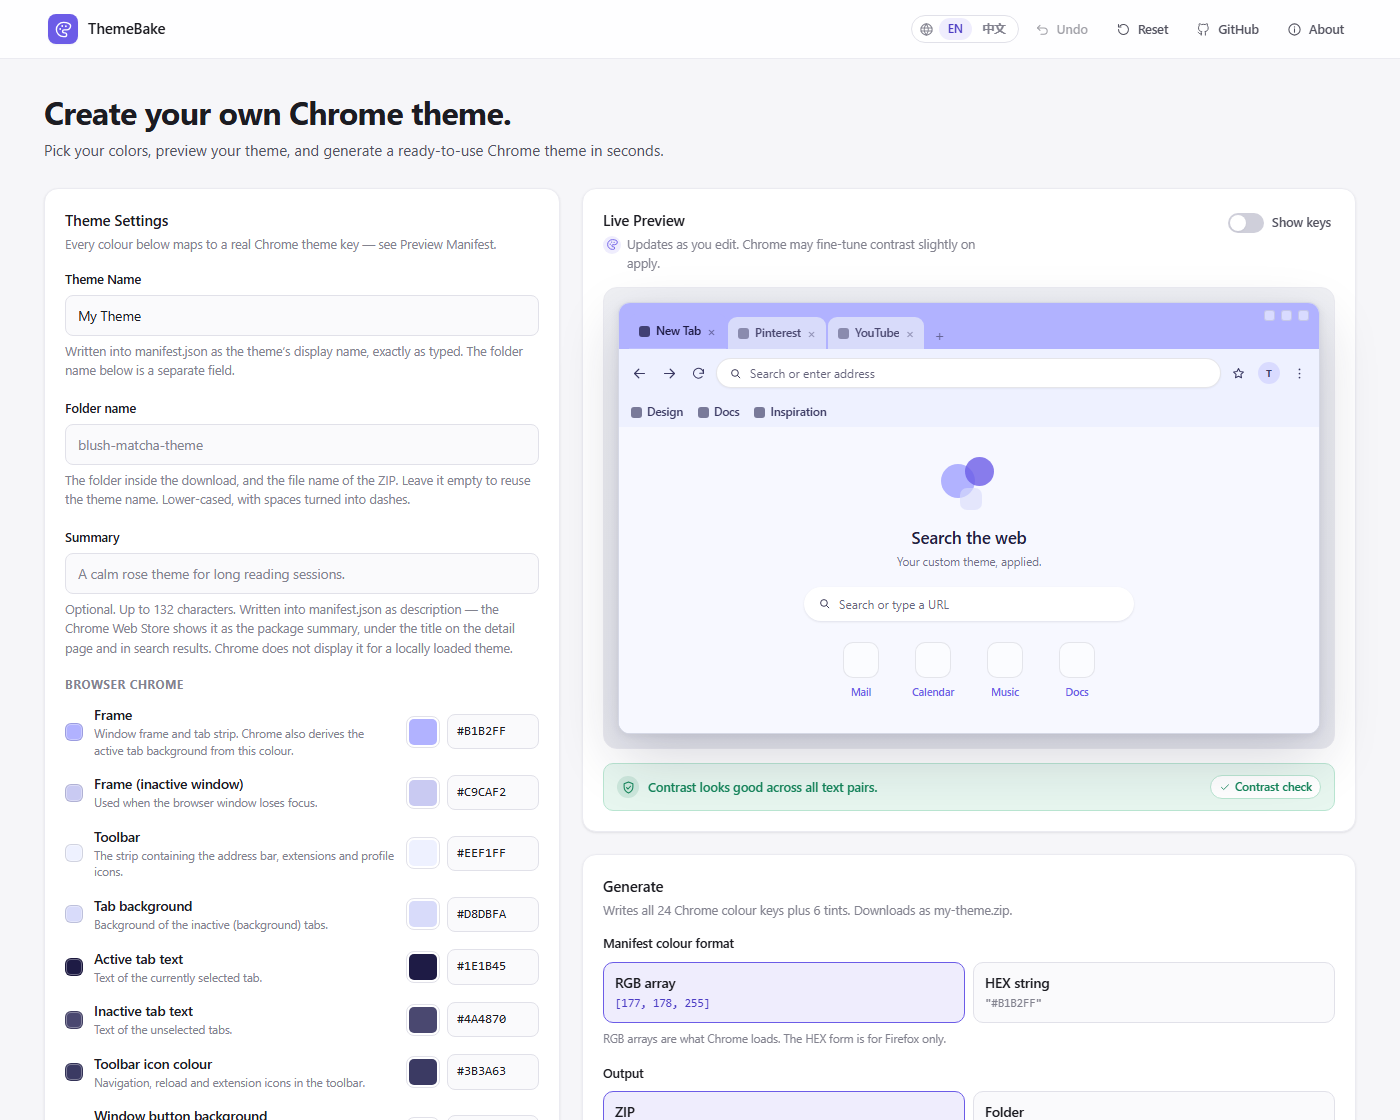
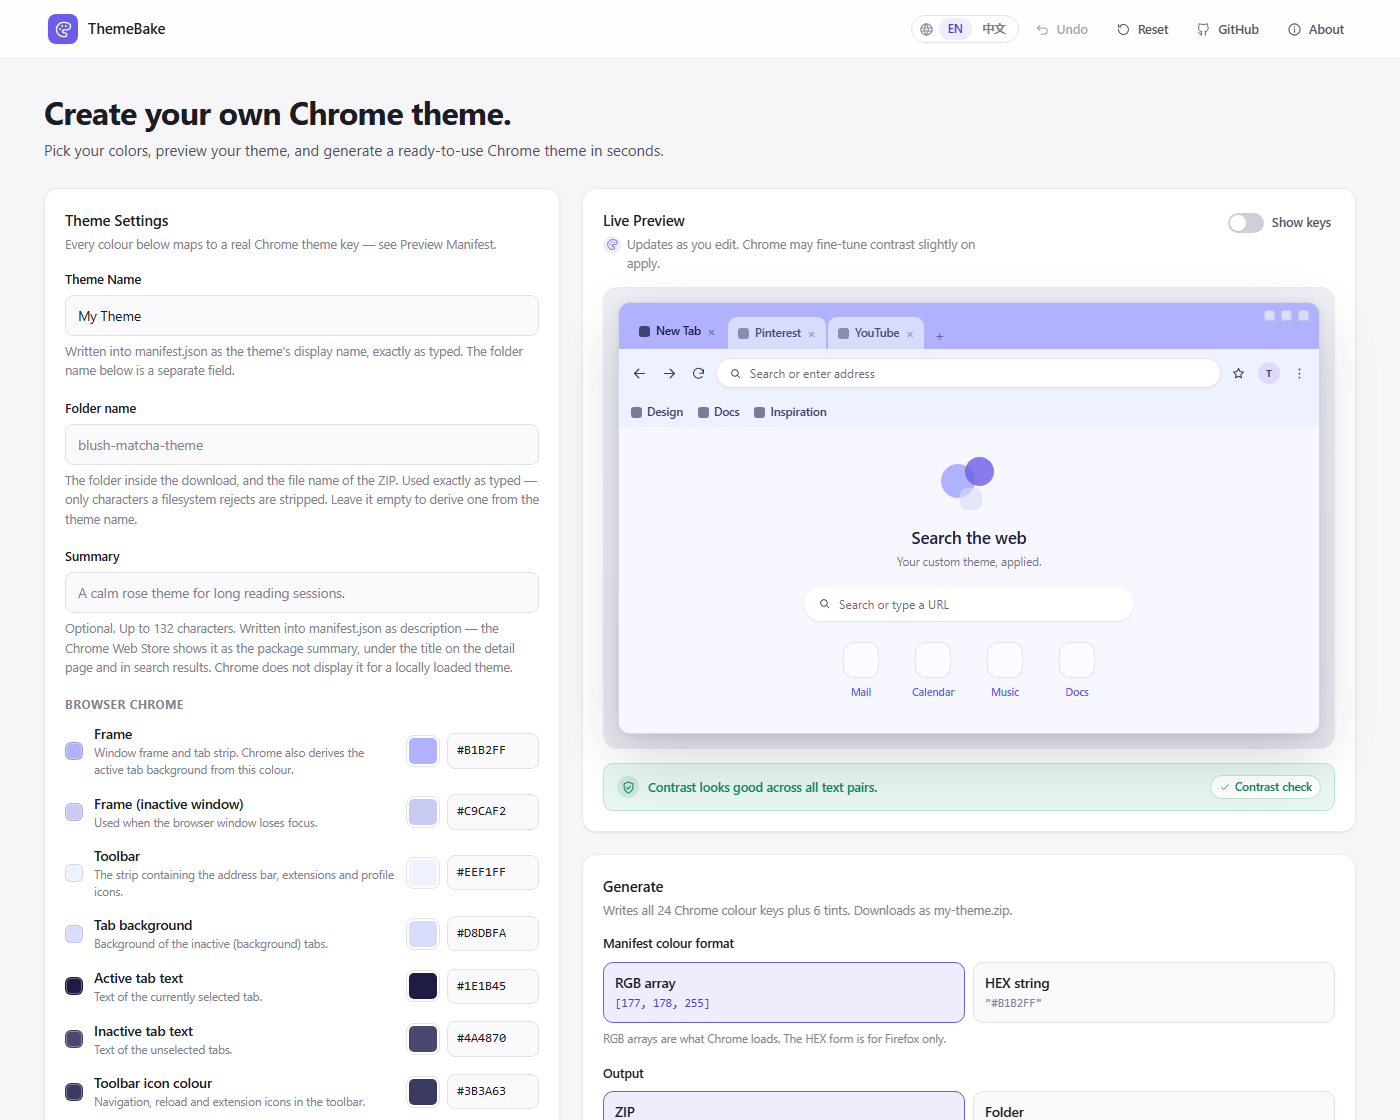
feat: 文件夹名改为完全原样（不转小写、不换连字符）
用户要求「填什么就是什么」：Blush Matcha Theme 就该原样成为文件夹名与文件名。

- 新增 toSafeName()（utils/slug.js）：只做最小清洗——非法字符（\ / : * ? " < > |
  与控制字符）合成一个 -、去掉首尾的点/空格/连字符、Windows 保留名（CON 等）加
  -theme 后缀、长度上限 64；大小写、空格、下划线一律保留；空结果返回 '' 由调用方兜底
- App 用 toSafeName(folderInput) || toThemeFolderName(name)；package.js 里显式
  folderName 走 toSafeName，派生路径不变
- toSafeFilename / toSlug / toThemeFolderName 保留，只服务「留空时从主题名派生」
- 提示文案改为「填什么就是什么，只去掉文件系统不接受的字符」

验证：
- verify 297 -> 304（大小写空格保留、首尾裁剪、非法字符合并、首尾点、Windows 保留名、
  空结果、带空格的 folderName 进包后 zipName 为 'Blush Matcha Theme.zip'）
- E2E 231 -> 233（大写与空格原样保留、下载名完全一致）
- docs/screenshot.png 因提示文案变化而更新

Changed region(s): [[0.0307, 0.4062, 0.3686, 1.0], [0.2764, 0.7812, 0.3686, 1.0]]

diff --git a/src/utils/slug.js b/src/utils/slug.js
@@ -10,6 +10,11 @@
  *   - guard against Windows reserved device names (CON, PRN, AUX, NUL, COM1-9, LPT1-9)
  *   - enforce a length cap that leaves room for the ".zip" suffix
  *   - always fall back to a usable name
+ *
+ * Two flavours live here. `toSafeFilename` / `toSlug` are for names **we** derive
+ * from free text, so they lower-case and dashify. `toSafeName` is for names the
+ * **user** typed, and keeps their case and spaces — only what a filesystem
+ * genuinely rejects is touched.
  */
 
 const ILLEGAL_CHARS = /[\\/:*?"<>|\u0000-\u001F\u007F]/g
@@ -46,4 +51,40 @@ export function toSafeFilename(name, extension = 'zip') {
 /** Slug used for the ZIP-internal file name and for display in the Toaster. */
 export function toSlug(name) {
   return toSafeFilename(name).replace(/\.zip$/, '')
+}
+
+/**
+ * Separators Windows/macOS/Linux reject, collapsed into a single dash so that
+ * "a/b" reads as "a-b" instead of silently gluing the two words together.
+ */
+const ILLEGAL_RUN = /[\\/:*?"<>|\u0000-\u001F\u007F]+/g
+
+/**
+ * Sanitise a name the user typed **without changing how it reads**.
+ *
+ * A folder name is not derived from anything — the user typed it — so
+ * "Blush Matcha Theme" has to stay exactly that. Only what a filesystem genuinely
+ * rejects is removed:
+ *   - characters Windows/macOS/Linux refuse (a run of them becomes one dash)
+ *   - leading/trailing dots, spaces and dashes (Windows cannot create the first
+ *     two, a leading dot hides the entry on unix, and stripping the dashes is what
+ *     stops a name of nothing but illegal characters from surviving as "-")
+ *   - Windows reserved device names (CON, PRN, …)
+ *
+ * Case, interior spaces and underscores are preserved. Returns `''` when nothing
+ * usable is left, so the caller can pick its own fallback.
+ *
+ * @param {string} name
+ * @returns {string}
+ */
+export function toSafeName(name) {
+  let base = String(name ?? '')
+    .replace(ILLEGAL_RUN, '-')
+    .replace(/^[.\s-]+|[.\s-]+$/g, '')
+    .slice(0, MAX_BASE_LENGTH)
+    .replace(/[.\s-]+$/g, '')
+
+  if (!base) return ''
+  if (WINDOWS_RESERVED.test(base)) base = `${base}-theme`
+  return base
 }

diff --git a/src/App.jsx b/src/App.jsx
@@ -50,6 +50,7 @@ import { exportThemeJson } from './utils/importTheme.js'
 import { buildManifest, parseManifest, validateThemeInput } from './utils/manifest.js'
 import { buildThemePackage, toThemeFolderName } from './utils/package.js'
 import { INTENSITIES, SOLVER_MODES, solveTheme } from './utils/palette.js'
+import { toSafeName } from './utils/slug.js'
 import { clearTheme, loadTheme, saveTheme, storageAvailable } from './utils/storage.js'
 import { createZip, downloadBlob, downloadText } from './utils/zip.js'
 
@@ -193,13 +194,12 @@ export default function App() {
   // named after that folder — so what a user sees in their Downloads list is
   // exactly what they are about to unpack and select. An empty or unusable name
   // falls back inside `toThemeFolderName`, so there is no second fallback here.
-  // Empty falls back to a slug of the theme name so the export panel is never
-  // blank, but nothing is ever written back into the input — the field stays
-  // exactly what the user typed.
-  const folderName = useMemo(
-    () => toThemeFolderName(folderInput.trim() ? folderInput : name),
-    [folderInput, name],
-  )
+  // Used exactly as typed — case and spaces included — because this is the user's
+  // own name for the folder, not a slug of the theme name. Only what a filesystem
+  // rejects is stripped. An empty field is the one case that derives a name (a slug
+  // of the theme name) so the export panel is never blank, and nothing is ever
+  // written back into the input either way.
+  const folderName = useMemo(() => toSafeName(folderInput) || toThemeFolderName(name), [folderInput, name])
   const filename = useMemo(() => `${folderName}.zip`, [folderName])
 
   /** Re-checked on every colour change: the safety net under manual edits. */

diff --git a/src/utils/package.js b/src/utils/package.js
@@ -27,7 +27,7 @@
 
 import { ICON_FILENAME, THEME_FOLDER_SUFFIX } from '../data/themeFields.js'
 import { buildManifest } from './manifest.js'
-import { toSlug } from './slug.js'
+import { toSafeName, toSlug } from './slug.js'
 import { MANIFEST_FILENAME } from './zip.js'
 
 /**
@@ -110,10 +110,11 @@ export async function buildThemePackage({
   if (icon) files.push({ path: ICON_FILENAME, data: icon })
 
   // The caller may own the folder name (the editor keeps it separate from the
-  // theme name); when it does not, derive one so the older call sites keep working.
-  const folderName = toThemeFolderName(
-    typeof explicitFolderName === 'string' && explicitFolderName.trim() ? explicitFolderName : name,
-  )
+  // theme name). A caller-provided one is used as typed — only what a filesystem
+  // rejects is stripped — while a derived one is slugified, because that one came
+  // from free text rather than from the user's own folder-name field.
+  const typedFolderName = typeof explicitFolderName === 'string' ? toSafeName(explicitFolderName) : ''
+  const folderName = typedFolderName || toThemeFolderName(name)
 
   return {
     ...built,

diff --git a/src/i18n/en.js b/src/i18n/en.js
@@ -71,7 +71,7 @@ export default {
   'settings.folder.label': 'Folder name',
   'settings.folder.placeholder': 'blush-matcha-theme',
   'settings.folder.hint':
-    'The folder inside the download, and the file name of the ZIP. Leave it empty to reuse the theme name. Lower-cased, with spaces turned into dashes.',
+    'The folder inside the download, and the file name of the ZIP. Used exactly as typed — only characters a filesystem rejects are stripped. Leave it empty to derive one from the theme name.',
   'settings.description.label': 'Summary',
   'settings.description.placeholder': 'A calm rose theme for long reading sessions.',
   'settings.description.hint':

diff --git a/src/i18n/zh.js b/src/i18n/zh.js
@@ -64,7 +64,7 @@ export default {
   'settings.folder.label': '文件夹名',
   'settings.folder.placeholder': 'blush-matcha-theme',
   'settings.folder.hint':
-    '下载下来的文件夹名与 ZIP 文件名。留空则沿用主题名。会自动转成小写，空格换成 -。',
+    '下载下来的文件夹名与 ZIP 文件名。填什么就是什么，只去掉文件系统不接受的字符。留空则用主题名派生。',
   'settings.description.label': '摘要',
   'settings.description.placeholder': '一个安静的玫瑰色主题，适合长时间阅读。',
   'settings.description.hint':

diff --git a/README.md b/README.md
@@ -129,7 +129,7 @@ into your browser.
 | **Undo (Ctrl+Z)** | Every edit is undoable. A whole colour drag collapses into a single step, and the toast names what was undone |
 | **Preview Manifest** | Inspect the exact JSON before downloading, with a live "valid JSON" check and Copy JSON |
 | **Export theme JSON** | One click saves the whole theme — name, summary, logo choice, colour format and palette — as a JSON file. The Import panel reads it back, so a theme can be backed up or handed to someone else with nothing dropped |
-| **Theme name and folder name are separate** | The name Chrome displays is free text (`Blush Matcha Theme`); the folder and file name is its own field in kebab case (`blush-matcha-theme`). Neither is derived from the other, and an empty folder field falls back to a slug of the theme name |
+| **Theme name and folder name are separate** | The name Chrome displays is free text (`Blush Matcha Theme`); the folder and file name is its own field, used **exactly as typed** — capitals and spaces included, with only the characters a filesystem rejects removed. Neither is derived from the other, and an empty folder field derives one from the theme name |
 | **Folder output** | On desktop Chrome/Edge, Generate writes `<folder>/manifest.json` straight into a directory you pick, so nothing needs unzipping before **Load unpacked**. ZIP stays: it works everywhere, and it is the only form the Chrome Web Store accepts |
 | **Loadable package** | Either output wraps everything in one `<folder>/` folder holding exactly `manifest.json` — Chrome never displays a theme's icon, so no `icon.png` is shipped (the rendering capability stays in `utils/icon.js` if ever wanted) |
 | **Always complete** | Every export writes all **24** Chrome colour keys (14 you choose plus 10 derived: incognito frame, inactive/incognito tab states, NTP header, toolbar text) and the 6 HSL `tints`. There is no toggle. The one `theme.properties` key that does something for a colour-only theme — `ntp_logo_alternate` — is also always written, driven by the New Tab Page logo control |
@@ -183,10 +183,11 @@ folder you can safely select. Wrapping everything in one named folder makes the
 result directly selectable — and the **Folder** output skips the archive entirely,
 writing that folder where you ask for it.
 
-The folder name is its own field, not a slug of the theme name: the two follow
-different conventions, because the name Chrome displays is free text ("Blush Matcha
-Theme") while the folder has to survive a filesystem ("blush-matcha-theme").
-Leaving the folder field empty is the only case that falls back to the theme name.
+The folder name is its own field, not a slug of the theme name, and it is used
+exactly as typed — "Blush Matcha Theme" stays "Blush Matcha Theme". Only the
+characters a filesystem genuinely rejects are stripped, and a Windows device name
+like `CON` still gets a suffix. Leaving the field empty is the one case that derives
+a name, a slug of the theme name.
 
 Only two files are written. An audit of 21 hand-built reference themes showed that
 the other things they carry — `README.md`, `LICENSE`, `.gitignore`, `scripts/*.py`,
@@ -439,7 +440,7 @@ landed in the orange-olive mud band at low saturation.
 
 ## Verification
 
-### `npm run verify` — 297 assertions, no browser
+### `npm run verify` — 304 assertions, no browser
 
 `scripts/verify.mjs` runs in pure Node and covers colour parsing, field-map
 integrity (including that the 14 editable fields plus the 10 derived ones cover
@@ -461,7 +462,7 @@ also parses the E2E harness with `node --check`, so an unbalanced template liter
 fails in a second instead of after a browser has launched. It exits non-zero on
 failure and needs no browser.
 
-### Browser E2E — 231 assertions, real Chrome
+### Browser E2E — 233 assertions, real Chrome
 
 `verify.mjs` proves the pure logic. A companion harness proves the assembled app,
 driving real Chrome over the DevTools Protocol with **zero extra dependencies**
@@ -475,7 +476,7 @@ npm run preview                    # serves ./dist
 node <harness>/e2e.mjs http://localhost:4173
 ```
 
-**231 assertions** across 24 suites: first render, live preview reactions, invalid
+**233 assertions** across 24 suites: first render, live preview reactions, invalid
 input recovery, presets, randomiser, the key overlay, the manifest modal, name
 validation, **the generated ZIP unpacked and inspected byte-for-byte (manifest.json
 and nothing else)**, storage
